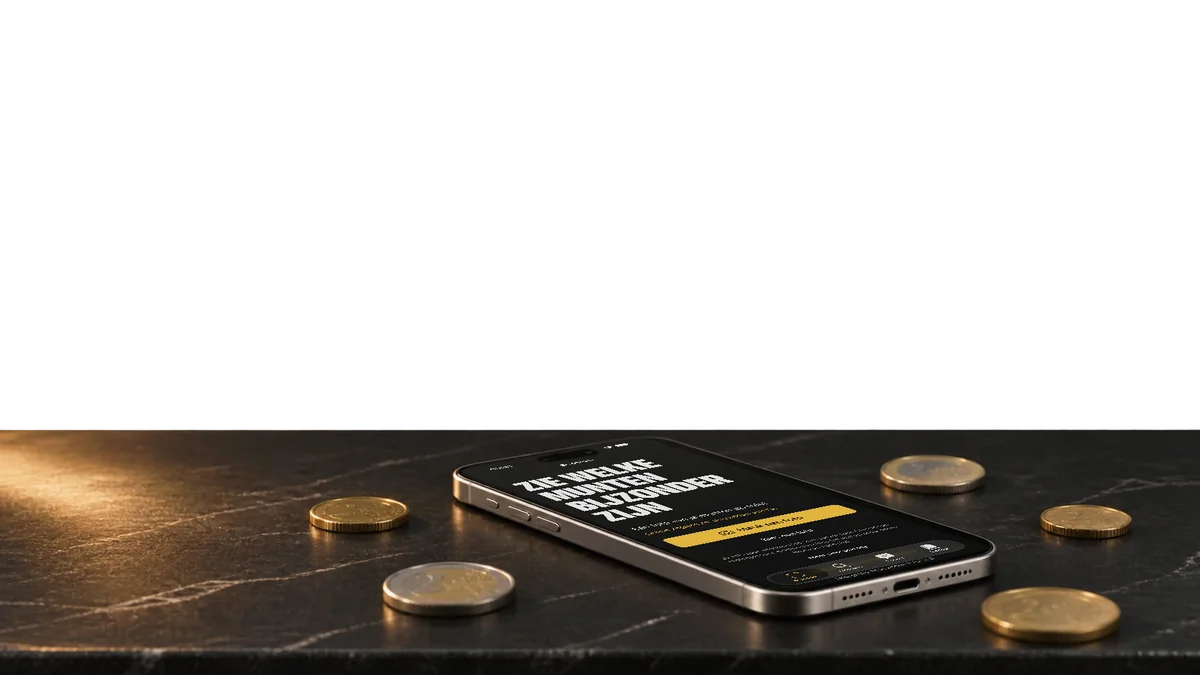
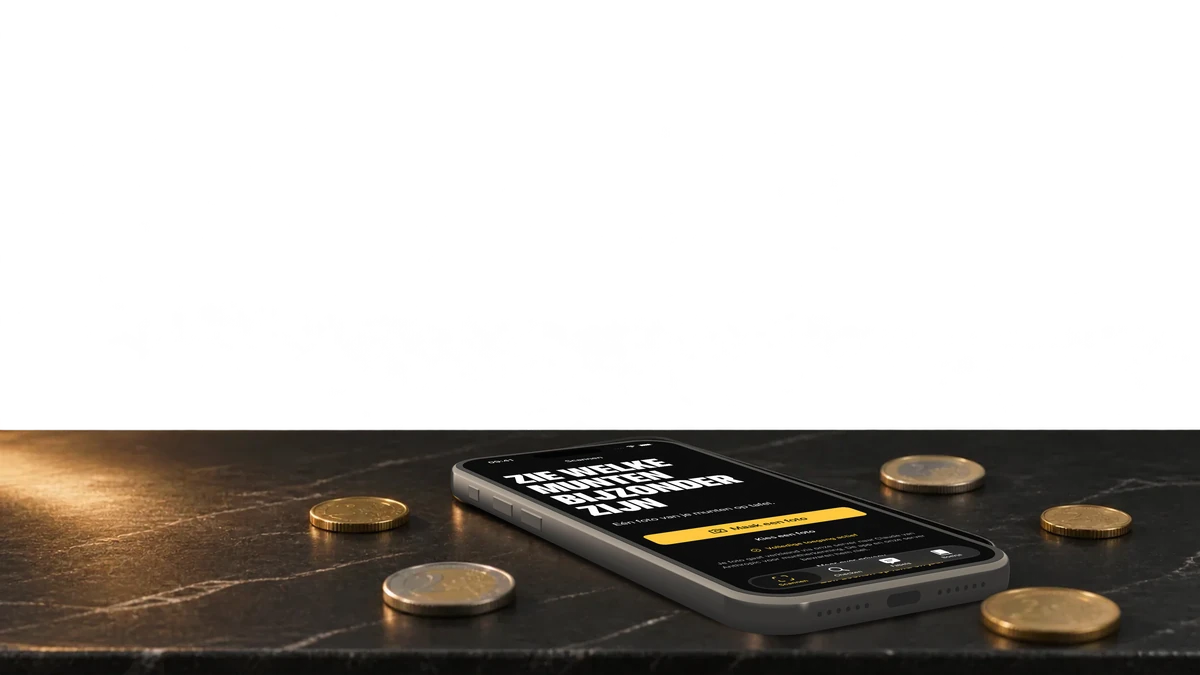
Hero-telefoon NL: zelf gebouwd, scherp en recht

Changed region(s): [[0.37, 0.6533, 0.8633, 0.9644]]

diff --git a/index.html b/index.html
@@ -1,4 +1,4 @@
-<!doctype html><html lang="nl"><head><meta charset="utf-8"><meta name="viewport" content="width=device-width,initial-scale=1,viewport-fit=cover"><meta http-equiv="Content-Security-Policy" content="default-src 'self'; script-src 'self'; style-src 'self' 'unsafe-inline'; img-src 'self' data:; font-src 'self'; connect-src 'self'; object-src 'none'; base-uri 'self'; form-action 'none'"><title>Euroreveal · Wat zit er in je zak?</title><meta name="description" content="Leg je euromunten op tafel. Bekijk de scan, vergelijk je munt en bewaar je vondst in je boekje."><meta name="theme-color" content="#070A12"><link rel="canonical" href="https://euroreveal.nl/"><link rel="alternate" hreflang="nl" href="https://euroreveal.nl/"><link rel="alternate" hreflang="en" href="https://euroreveal.nl/en/"><link rel="alternate" hreflang="x-default" href="https://euroreveal.nl/"><meta property="og:url" content="https://euroreveal.nl/"><meta property="og:title" content="Euroreveal · Wat zit er in je zak?"><meta property="og:description" content="Leg je euromunten op tafel. Bekijk de scan, vergelijk je munt en bewaar je vondst in je boekje."><meta property="og:image" content="https://euroreveal.nl/img/share.jpg"><meta property="og:image:width" content="1200"><meta property="og:image:height" content="630"><meta property="og:image:alt" content="Euroreveal"><meta property="og:type" content="website"><meta property="og:locale" content="nl_NL"><meta property="og:locale:alternate" content="en_GB"><meta name="twitter:card" content="summary_large_image"><link rel="icon" href="img/favicon-32.png"><link rel="apple-touch-icon" href="img/apple-touch-icon.png"><link rel="preload" href="fonts/archivo-extracondensed-black.ttf" as="font" type="font/ttf" crossorigin><link rel="stylesheet" href="fonts/fonts.css"><link rel="stylesheet" href="style.css"><script src="site.js" defer></script><script type="application/ld+json">{"@context": "https://schema.org", "@type": "SoftwareApplication", "name": "Euroreveal", "url": "https://euroreveal.nl/", "image": "https://euroreveal.nl/img/share.jpg", "operatingSystem": "iOS", "applicationCategory": "ReferenceApplication", "inLanguage": "nl", "description": "Leg je euromunten op tafel. Bekijk de scan, vergelijk je munt en bewaar je vondst in je boekje.", "offers": {"@type": "Offer", "price": "14.99", "priceCurrency": "EUR"}, "author": {"@type": "Person", "name": "Danny Schuurman"}}</script></head><body class="home"><a class="skip" href="#inhoud">Naar de inhoud</a><a class="language" href="en/" lang="en">EN</a><nav class="coin-rail" aria-label="Scènes"><a href="#avond" aria-label="De avond" title="De avond"><span class="rail-coin"></span><span class="rail-label">De avond</span></a><a href="#scan" aria-label="De scan" title="De scan"><span class="rail-coin"></span><span class="rail-label">De scan</span></a><a href="#herkomst" aria-label="De herkomst" title="De herkomst"><span class="rail-coin"></span><span class="rail-label">De herkomst</span></a><a href="#fabel" aria-label="De fabel" title="De fabel"><span class="rail-coin"></span><span class="rail-label">De fabel</span></a><a href="#boekje" aria-label="Het boekje" title="Het boekje"><span class="rail-coin"></span><span class="rail-label">Het boekje</span></a><a href="#privacy" aria-label="Privacy & prijs" title="Privacy & prijs"><span class="rail-coin"></span><span class="rail-label">Privacy & prijs</span></a><a href="#slot" aria-label="Euroreveal" title="Euroreveal"><span class="rail-coin"></span><span class="rail-label">Euroreveal</span></a></nav><main id="inhoud"><section class="hero" id="avond"><div class="hero-stage"><div class="camera"><picture class="plate sky"><source media="(max-width:820px)" srcset="assets/film/sky-m.webp"><img src="assets/film/sky-1200.webp" srcset="assets/film/sky-1200.webp 1200w, assets/film/sky.webp 1672w" sizes="100vw" alt="" fetchpriority=high width="1672" height="941"></picture><div class="hero-word"><p class="eyebrow">VOOR DE VONDST IN JE ZAK</p><h1>JE KLEINGELD. <br>EEN VERHAAL.</h1></div><picture class="plate far"><source media="(max-width:820px)" srcset="assets/film/far-m.webp"><img src="assets/film/far-1200.webp" srcset="assets/film/far-1200.webp 1200w, assets/film/far.webp 1672w" sizes="100vw" alt="" loading=lazy width="1672" height="941"></picture><picture class="plate near"><source media="(max-width:820px)" srcset="assets/film/near-nl-m.webp"><img src="assets/film/near-nl-1200.webp" srcset="assets/film/near-nl-1200.webp 1200w, assets/film/near-nl.webp 1672w" sizes="100vw" alt="" fetchpriority=high width="1672" height="941"></picture></div><a class="hero-brand" href="#avond"><img src="img/icoon.png" width="34" height="34" alt="">Euroreveal</a><div class="hero-bottom"><p>Van je jaszak naar je eigen verzameling. <br>Begin met een foto.</p><a class="round-link" href="#scan">Bekijk de scan <span>↗</span></a><small>Amsterdam, na sluitingstijd.</small></div><div class="dive-shade"></div></div></section>
+<!doctype html><html lang="nl"><head><meta charset="utf-8"><meta name="viewport" content="width=device-width,initial-scale=1,viewport-fit=cover"><meta http-equiv="Content-Security-Policy" content="default-src 'self'; script-src 'self'; style-src 'self' 'unsafe-inline'; img-src 'self' data:; font-src 'self'; connect-src 'self'; object-src 'none'; base-uri 'self'; form-action 'none'"><title>Euroreveal · Wat zit er in je zak?</title><meta name="description" content="Leg je euromunten op tafel. Bekijk de scan, vergelijk je munt en bewaar je vondst in je boekje."><meta name="theme-color" content="#070A12"><link rel="canonical" href="https://euroreveal.nl/"><link rel="alternate" hreflang="nl" href="https://euroreveal.nl/"><link rel="alternate" hreflang="en" href="https://euroreveal.nl/en/"><link rel="alternate" hreflang="x-default" href="https://euroreveal.nl/"><meta property="og:url" content="https://euroreveal.nl/"><meta property="og:title" content="Euroreveal · Wat zit er in je zak?"><meta property="og:description" content="Leg je euromunten op tafel. Bekijk de scan, vergelijk je munt en bewaar je vondst in je boekje."><meta property="og:image" content="https://euroreveal.nl/img/share.jpg"><meta property="og:image:width" content="1200"><meta property="og:image:height" content="630"><meta property="og:image:alt" content="Euroreveal"><meta property="og:type" content="website"><meta property="og:locale" content="nl_NL"><meta property="og:locale:alternate" content="en_GB"><meta name="twitter:card" content="summary_large_image"><link rel="icon" href="img/favicon-32.png"><link rel="apple-touch-icon" href="img/apple-touch-icon.png"><link rel="preload" href="fonts/archivo-extracondensed-black.ttf" as="font" type="font/ttf" crossorigin><link rel="stylesheet" href="fonts/fonts.css"><link rel="stylesheet" href="style.css"><script src="site.js" defer></script><script type="application/ld+json">{"@context": "https://schema.org", "@type": "SoftwareApplication", "name": "Euroreveal", "url": "https://euroreveal.nl/", "image": "https://euroreveal.nl/img/share.jpg", "operatingSystem": "iOS", "applicationCategory": "ReferenceApplication", "inLanguage": "nl", "description": "Leg je euromunten op tafel. Bekijk de scan, vergelijk je munt en bewaar je vondst in je boekje.", "offers": {"@type": "Offer", "price": "14.99", "priceCurrency": "EUR"}, "author": {"@type": "Person", "name": "Danny Schuurman"}}</script></head><body class="home"><a class="skip" href="#inhoud">Naar de inhoud</a><a class="language" href="en/" lang="en">EN</a><nav class="coin-rail" aria-label="Scènes"><a href="#avond" aria-label="De avond" title="De avond"><span class="rail-coin"></span><span class="rail-label">De avond</span></a><a href="#scan" aria-label="De scan" title="De scan"><span class="rail-coin"></span><span class="rail-label">De scan</span></a><a href="#herkomst" aria-label="De herkomst" title="De herkomst"><span class="rail-coin"></span><span class="rail-label">De herkomst</span></a><a href="#fabel" aria-label="De fabel" title="De fabel"><span class="rail-coin"></span><span class="rail-label">De fabel</span></a><a href="#boekje" aria-label="Het boekje" title="Het boekje"><span class="rail-coin"></span><span class="rail-label">Het boekje</span></a><a href="#privacy" aria-label="Privacy & prijs" title="Privacy & prijs"><span class="rail-coin"></span><span class="rail-label">Privacy & prijs</span></a><a href="#slot" aria-label="Euroreveal" title="Euroreveal"><span class="rail-coin"></span><span class="rail-label">Euroreveal</span></a></nav><main id="inhoud"><section class="hero" id="avond"><div class="hero-stage"><div class="camera"><picture class="plate sky"><source media="(max-width:820px)" srcset="assets/film/sky-m.webp"><img src="assets/film/sky-1200.webp" srcset="assets/film/sky-1200.webp 1200w, assets/film/sky.webp 1672w" sizes="100vw" alt="" fetchpriority=high width="1672" height="941"></picture><div class="hero-word"><p class="eyebrow">VOOR DE VONDST IN JE ZAK</p><h1>JE KLEINGELD. <br>EEN VERHAAL.</h1></div><picture class="plate far"><source media="(max-width:820px)" srcset="assets/film/far-m.webp"><img src="assets/film/far-1200.webp" srcset="assets/film/far-1200.webp 1200w, assets/film/far.webp 1672w" sizes="100vw" alt="" loading=lazy width="1672" height="941"></picture><picture class="plate near"><source media="(max-width:820px)" srcset="assets/film/near-nl-m.webp 1x, assets/film/near-nl-m-2x.webp 2x"><img src="assets/film/near-nl-1200.webp" srcset="assets/film/near-nl-1200.webp 1200w, assets/film/near-nl.webp 1672w, assets/film/near-nl-2x.webp 3344w" sizes="100vw" alt="" fetchpriority=high width="1672" height="941"></picture></div><a class="hero-brand" href="#avond"><img src="img/icoon.png" width="34" height="34" alt="">Euroreveal</a><div class="hero-bottom"><p>Van je jaszak naar je eigen verzameling. <br>Begin met een foto.</p><a class="round-link" href="#scan">Bekijk de scan <span>↗</span></a><small>Amsterdam, na sluitingstijd.</small></div><div class="dive-shade"></div></div></section>
 <section class="film" id="scan"><div class="film-stage"><div class="film-glow"></div><div class="film-copy"><div class="beat beat-0"><p class="eyebrow">De scan</p><h2>LEG HET <br>OP TAFEL.</h2><p>Je maakt een foto van je munten. De landkant naar boven.</p></div><div class="beat beat-1"><p class="eyebrow">De scan</p><h2>DRIE MUNTEN. <br>EVEN KIJKEN.</h2><p>De app markeert de munten op de foto. Jij kijkt mee.</p></div><div class="beat beat-2"><p class="eyebrow">De scan</p><h2>WELKE IS <br>DE JOUWE?</h2><p>Vergelijk de details met je eigen munt. Land, jaar en uitvoering doen ertoe.</p></div><div class="beat beat-3"><p class="eyebrow">Apart catalogusvoorbeeld</p><h2>EN DAN. <br>DE ONTHULLING.</h2><p>Een voorbeeld uit de catalogus. Finland, 2 euro 2004, uitbreiding EU.</p></div><div class="beat beat-4"><p class="eyebrow">Het boekje</p><h2>IN JE BOEKJE.</h2><p>Bewaar de munt met het oordeel en de indicatie. Je verzameling begint hier.</p></div></div><div class="iphone live-phone"><div class="phone-buttons"></div><div class="screen"><div class="app-shot foto"><img class="shot" src="assets/app/nl-foto.webp" alt="De app bekijkt een foto van drie munten op tafel" loading=lazy width="603" height="1311"></div><div class="overlay rings-panel"><div class="app-shot ringen"><img class="shot" src="assets/app/nl-ringen.webp" alt="Uitslag van een echte scan: drie munten omcirkeld en genummerd" loading=lazy width="603" height="1311"><button class="hit-r3" aria-label="Kras de waarde open" data-open></button></div></div><div class="overlay compare-panel" inert aria-hidden="true"><div class="app-shot rijen"><img class="shot" src="assets/app/nl-rijen.webp" alt="Uitslag: twee munten om even te vergelijken, één niet zeker herkend" loading=lazy width="603" height="1311"></div></div><div class="overlay reveal-panel" inert aria-hidden="true"><div class="app-shot onthulling"><img class="shot" src="assets/app/nl-onthulling.webp" alt="De onthulling voor Finland 2 euro 2004: mogelijk bijzonder, ca. 29 euro voor een ongebruikte munt" loading=lazy width="603" height="1311"></div></div><div class="overlay book-panel" inert aria-hidden="true"><div class="app-shot boekje"><img class="shot" src="assets/app/nl-boekje.webp" alt="Mijn boekje met Finland 2 euro 2004" loading=lazy width="603" height="1311"></div></div><i class="island"></i></div></div><div class="value-block"><p class="eyebrow">Uitbreiding EU</p><div class="value" aria-live="polite">€ ··</div><p class="condition">ongebruikt</p><p class="disclaimer">Indicatie, geen verkoopprijs.</p><button class="scratch-control" data-scratch data-label="Kras de waarde open" data-replay="Opnieuw krassen">Kras de waarde open <span>↗</span></button><p class="catalogue">Finland · 2 euro · 2004</p></div><p class="film-caption">Demonstratie met een echte scan</p></div></section>
 <section class="pan" id="herkomst"><div class="pan-stage"><div class="pan-heading"><p class="eyebrow">De herkomst</p><h2>ELKE ZAK <br>HEEFT EEN VERHAAL.</h2><p>Wat er al die tijd tussen je kleingeld zat.</p></div><div class="pan-track"><figure><picture class=""><source media="(max-width:820px)" srcset="assets/film/bakker-m.webp"><img src="assets/film/bakker-1200.webp" srcset="assets/film/bakker-1200.webp 1200w, assets/film/bakker.webp 1672w" sizes="100vw" alt="Bij de bakker." loading=lazy width="1672" height="941"></picture><figcaption>Bij de bakker.</figcaption></figure><figure><picture class=""><source media="(max-width:820px)" srcset="assets/film/vakantie-m.webp"><img src="assets/film/vakantie-1200.webp" srcset="assets/film/vakantie-1200.webp 1200w, assets/film/vakantie.webp 1672w" sizes="100vw" alt="Uit de vakantiepot." loading=lazy width="1672" height="941"></picture><figcaption>Uit de vakantiepot.</figcaption></figure><figure><picture class=""><source media="(max-width:820px)" srcset="assets/film/spaarpot-m.webp"><img src="assets/film/spaarpot-1200.webp" srcset="assets/film/spaarpot-1200.webp 1200w, assets/film/spaarpot.webp 1672w" sizes="100vw" alt="Van oma." loading=lazy width="1672" height="941"></picture><figcaption>Van oma.</figcaption></figure><figure><picture class=""><source media="(max-width:820px)" srcset="assets/film/fooien-m.webp"><img src="assets/film/fooien-1200.webp" srcset="assets/film/fooien-1200.webp 1200w, assets/film/fooien.webp 1672w" sizes="100vw" alt="Na de laatste koffie." loading=lazy width="1672" height="941"></picture><figcaption>Na de laatste koffie.</figcaption></figure></div></div></section>
 <section class="myth" id="fabel"><picture class="myth-image"><source media="(max-width:820px)" srcset="assets/film/fabel-m.webp"><img src="assets/film/fabel-1200.webp" srcset="assets/film/fabel-1200.webp 1200w, assets/film/fabel.webp 1672w" sizes="100vw" alt="" loading=lazy width="1672" height="941"></picture><div class="myth-copy"><p class="eyebrow">DE FABELCHECK</p><h2>“EVEN POETSEN. <br>DAN IS HIJ <br>MEER WAARD.”</h2><p class="verdict">× Onwaar</p><p>Schoonmaken of poetsen verlaagt de verzamelwaarde. Niet doen.</p></div></section>
